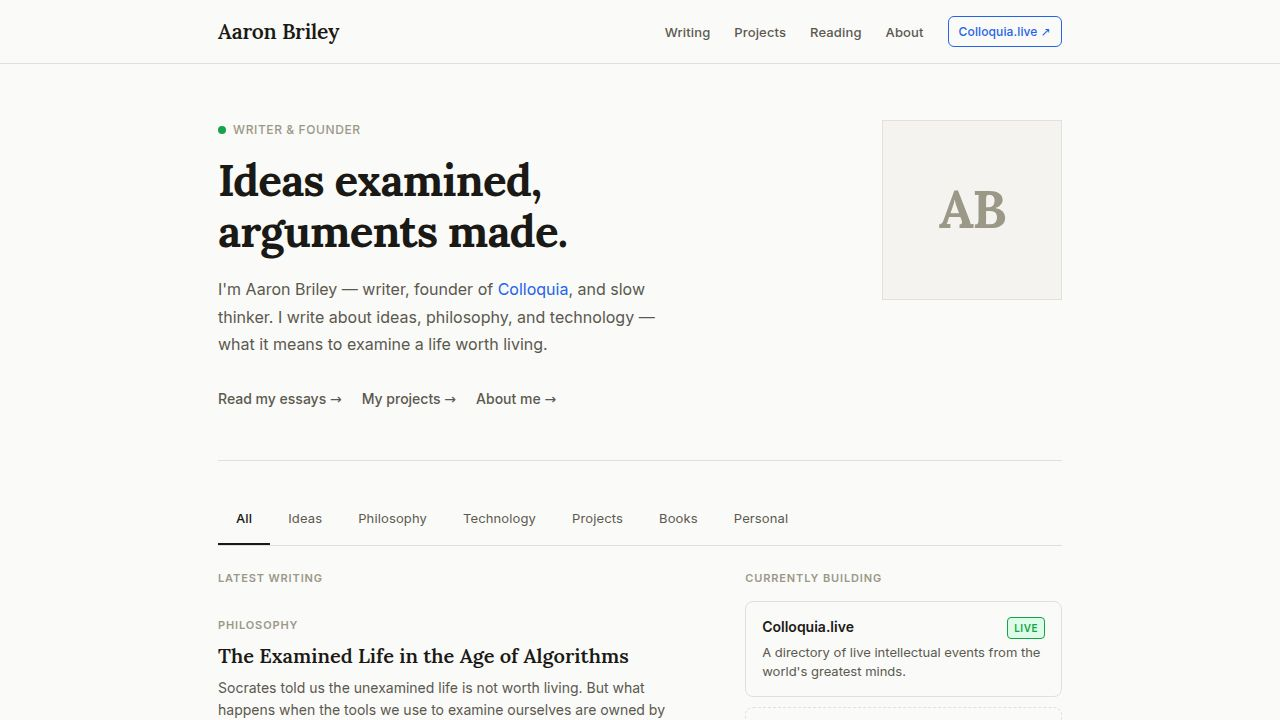
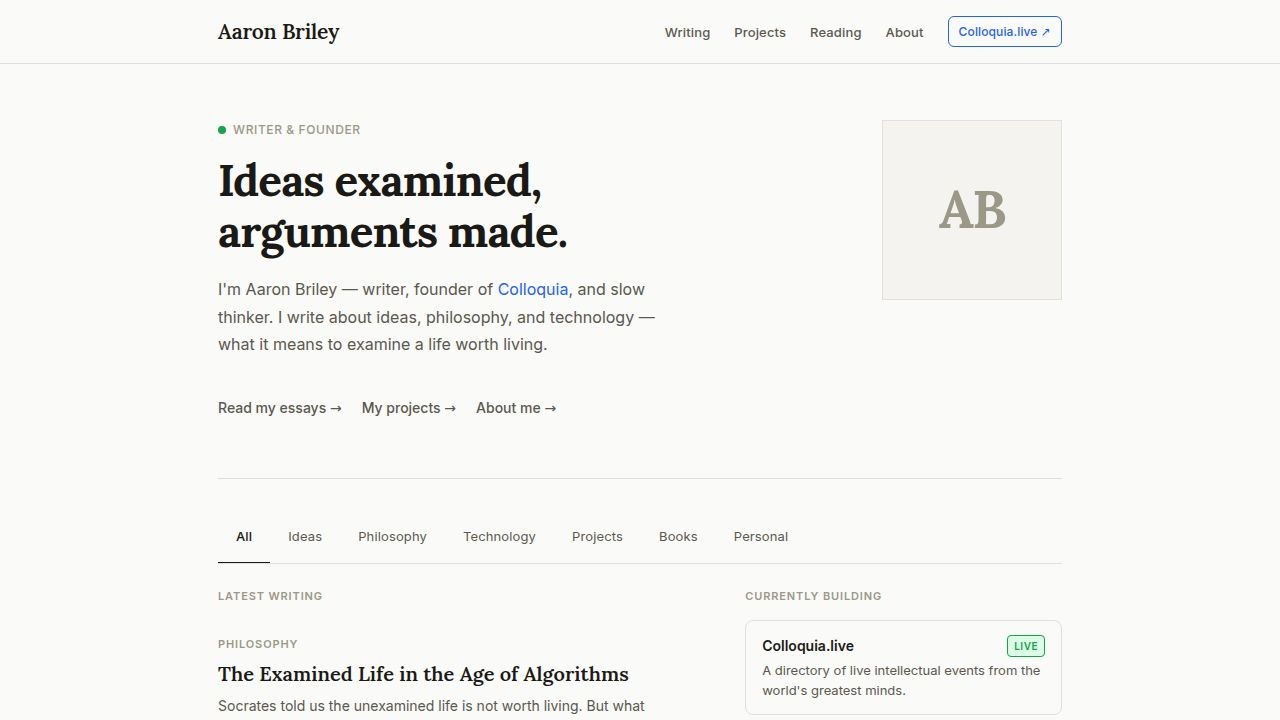
Add files via upload

diff --git a/vite.config.ts b/vite.config.ts
@@ -2,70 +2,27 @@ import { defineConfig } from "vite";
 import react from "@vitejs/plugin-react";
 import tailwindcss from "@tailwindcss/vite";
 import path from "path";
-import runtimeErrorOverlay from "@replit/vite-plugin-runtime-error-modal";
 
-const rawPort = process.env.PORT;
-
-if (!rawPort) {
-  throw new Error(
-    "PORT environment variable is required but was not provided.",
-  );
-}
-
-const port = Number(rawPort);
-
-if (Number.isNaN(port) || port <= 0) {
-  throw new Error(`Invalid PORT value: "${rawPort}"`);
-}
-
-const basePath = process.env.BASE_PATH;
-
-if (!basePath) {
-  throw new Error(
-    "BASE_PATH environment variable is required but was not provided.",
-  );
-}
+const port = process.env.PORT ? Number(process.env.PORT) : 3000;
+const base = process.env.BASE_PATH ?? "/";
 
 export default defineConfig({
-  base: basePath,
-  plugins: [
-    react(),
-    tailwindcss(),
-    runtimeErrorOverlay(),
-    ...(process.env.NODE_ENV !== "production" &&
-    process.env.REPL_ID !== undefined
-      ? [
-          await import("@replit/vite-plugin-cartographer").then((m) =>
-            m.cartographer({
-              root: path.resolve(import.meta.dirname, ".."),
-            }),
-          ),
-          await import("@replit/vite-plugin-dev-banner").then((m) =>
-            m.devBanner(),
-          ),
-        ]
-      : []),
-  ],
+  base,
+  plugins: [react(), tailwindcss()],
   resolve: {
     alias: {
       "@": path.resolve(import.meta.dirname, "src"),
-      "@assets": path.resolve(import.meta.dirname, "..", "..", "attached_assets"),
     },
     dedupe: ["react", "react-dom", "react-router-dom"],
   },
-  root: path.resolve(import.meta.dirname),
   build: {
-    outDir: path.resolve(import.meta.dirname, "dist/public"),
+    outDir: "dist",
     emptyOutDir: true,
   },
   server: {
     port,
     host: "0.0.0.0",
     allowedHosts: true,
-    fs: {
-      strict: true,
-      deny: ["**/.*"],
-    },
   },
   preview: {
     port,
